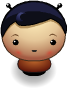
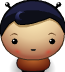
Congrats and Try Again messages are in place, as is the Play Again button and resetting the game. The game is playable. Player token shows background to see the actual collison best.

diff --git a/js/app.js b/js/app.js
@@ -1,14 +1,14 @@
 // Enemies our player must avoid
-var Enemy = function() {
+var Enemy = function(x, y, rate) {
     // Variables applied to each of our instances go here,
     // we've provided one for you to get started
 
     // The image/sprite for our enemies, this uses
     // a helper we've provided to easily load images
     this.sprite = 'images/enemy-bug-trimmed.png';
-    this.x = 20;
-    this.y = 80;
-    this.rate = 2;
+    this.x = x;
+    this.y = y;
+    this.rate = rate;
     this.identifier = 0;
 };
 
@@ -31,9 +31,9 @@ Enemy.prototype.render = function() {
 // a handleInput() method.
 var Player = function() {
     // this.sprite = 'images/char-cat-girl.png';
-    this.sprite = 'images/char-boy-trimmed.png';
+    this.sprite = 'images/char-boy-trimmed-red-background.png';
     this.x = 200;
-    this.y = 400;
+    this.y = 500;
     // this.w = Resources.get('images/char-boy.png').naturalWidth;
     // this.h = Resources.get('images/char-boy.png').naturalHeight;
 }
@@ -44,7 +44,7 @@ Player.prototype.update = function(dt) {
 
 Player.prototype.reset = function() {
     this.x = 200;
-    this.y = 400;
+    this.y = 500;
 };
 
 function move(moveData, stayOnBoard) {
@@ -57,15 +57,10 @@ function move(moveData, stayOnBoard) {
   //    left or up (towards the 0,0 coordinate)
 
   const [coord, change, lim] = moveData;
-  console.log("move");
+  // console.log("move");
 
   return stayOnBoard(moveData);
 }
-
-// function notTooLow() {
-//   console.log("notTooLow");
-//   return (30);
-// }
 
 function notTooLow(moveData) {
 
@@ -91,17 +86,17 @@ function notTooHigh(moveData) {
 Player.prototype.handleInput = function(k) {
   if (k == 'up') {
     // this.y -= 10;
-    this.y = move([this.y, -20, 0], notTooLow);   // TODO: give 0 a name
+    this.y = move([this.y, -18, 0], notTooLow);    // TODO: give 0 a name
 
   } else if (k == 'down') {
     // this.y += 10;
-    this.y = move([this.y, +20, 450], notTooHigh);
+    this.y = move([this.y, +18, 500], notTooHigh); // high in coordinate value but bottom of screen
   } else if (k == 'left') {
     // this.x -= 10;
-    this.x = move([this.x, -20, 0], notTooLow);
+    this.x = move([this.x, -18, 0], notTooLow);
   } else if (k == 'right') {
     // this.x += 10;
-    this.x = move([this.x, +20, 415], notTooHigh);
+    this.x = move([this.x, +18, 415], notTooHigh);
   }
 };
 
@@ -112,31 +107,23 @@ Player.prototype.render = function() {
 // Now instantiate your objects.
 // Place all enemy objects in an array called allEnemies
 // Place the player object in a variable called player
-let enemy1 = new Enemy();
-let enemy2 = new Enemy();
-let enemy3 = new Enemy();
-enemy2.x += 80;
-enemy2.y += 60;
-enemy2.rate = 0;
-enemy2.identifier = 1;
-
-enemy3.x = 0;
-enemy3.y = 100;
-enemy3.rate = 4;
-enemy3.identifier = 2;
-
-// let allEnemies = [enemy1, enemy2, enemy3];
-enemy1.rate = 0;
-let allEnemies = [enemy1];
+let allEnemies = [new Enemy(0, 120, .75), new Enemy(0, 200, 1.25),
+                  new Enemy(0, 270, 1.5), new Enemy(10, 380, 2)];
 
 let player = new Player();
+let playing = true;
 
 function closeModal() {
   console.log("closeModal");
   document.getElementById('congrats-modal').style.display = "none";
+  document.getElementsByClassName('thankyou-modal')[0].style.display = "none";
+  document.getElementsByClassName('sorry-modal')[0].style.display = "none";
   document.getElementsByClassName('modal')[0].style.display = "none";
 }
 
+function showThanksComeAgain() {
+  document.getElementsByClassName('thankyou-modal')[0].style.display = 'block';
+}
 
 function resetPlayerPosition() {
   player.reset();
@@ -148,6 +135,7 @@ function newGame() {
   // reset();                // move player back to starting place
   resetPlayerPosition();
   listenForKeyInputs();   // listen for key inputs
+  playing = true;
 }
 
 
@@ -176,11 +164,20 @@ function stopListeningForKeyInputs() {
   document.removeEventListener('keyup', handleKey);
 }
 
+function tryAgain() {
+  document.getElementsByClassName('sorry-modal')[0].style.display = "block";
+  // document.getElementsByClassName('modal')[0].style.display = "block";
+  stopListeningForKeyInputs();
+  playing = false;
+}
+
 function showWinner() {
   document.getElementById('congrats-modal').style.display = "block";
   document.getElementsByClassName('modal')[0].style.display = "block";
 
   stopListeningForKeyInputs();
+  playing = false;
+
 }
 
 listenForKeyInputs();

diff --git a/js/engine.js b/js/engine.js
@@ -78,8 +78,10 @@ var Engine = (function(global) {
      * on the entities themselves within your app.js file).
      */
     function update(dt) {
-        updateEntities(dt);
-        return checkCollisions();
+        if (playing) {
+          updateEntities(dt);
+          checkCollisions();
+        }
     }
 
     function checkCollisions() {
@@ -99,12 +101,13 @@ var Engine = (function(global) {
             x: 0,
             y: 0,
             width: 905,
-            height: 171 };
+            height: 111 };
 
+        // if (playing == false) {
+        //   return false;            // don't detect collisions if user is not playing
+        // }
         // has the player won?
         if (detectObjectOverlap(waterRect, playerRect)) {
-           let msg = "PLAYER HAS WON!";
-           console.log(msg);
            showWinner();
         }
 
@@ -112,16 +115,14 @@ var Engine = (function(global) {
         allEnemies.forEach(function(enemy) {
             enemyRect.x = enemy.x;
             enemyRect.y = enemy.y;
-            enemyRect.width = Resources.get(enemy.sprite).naturalWidth;
+            enemyRect.width = Resources.get(enemy.sprite).naturalWidth-10;
             enemyRect.height = Resources.get(enemy.sprite).naturalHeight;
 
             playerRect.x = player.x;
             playerRect.y = player.y;
 
             if (detectObjectOverlap(enemyRect, playerRect)) {
-              const msg = "GAME OVER: collided with enemy " + enemy.identifier;
-              console.log(msg);
-              alert(msg);
+              tryAgain();
             }
 
         });
@@ -238,7 +239,8 @@ var Engine = (function(global) {
         // 'images/char-boy-background.png',
         // 'images/enemy-bug-background.png',
         'images/enemy-bug-trimmed.png',
-        'images/char-boy-trimmed.png'
+        'images/char-boy-trimmed.png',
+        'images/char-boy-trimmed-red-background.png'
     ]);
     Resources.onReady(init);
 

diff --git a/index.html b/index.html
@@ -22,8 +22,7 @@
         <div class="play-again">
           Do you want to play again?
           <div class="button-responses">
-            <button class="button yes-button" onclick="newGame();">Yes</button>
-            <button class="button no-button" onclick="closeModal();">No</button>
+            <button class="button yes-button" onclick="newGame();">Play Again</button>
           </div>
         </div>
       </div>
@@ -31,8 +30,15 @@
     </div>
 
 
-    <div class="modal-sorry">
-      <p>Oops! You were eaten by a giant bug! Play again?</p>
+    <div class="sorry-modal modal">
+      <p>Whoa! These bugs sure are of unusual size!</p>
+      <p>Play again?</p>
+      <button class="button yes-button" onclick="newGame();">Play Again</button>
+    </div>
+
+    <div class="thankyou-modal modal">
+      <p>Thank you for playing. Please come again!</p>
+      <button class="button yes-button" onclick="newGame();">Play Again</button>
     </div>
 
     <script src="js/resources.js"></script>
